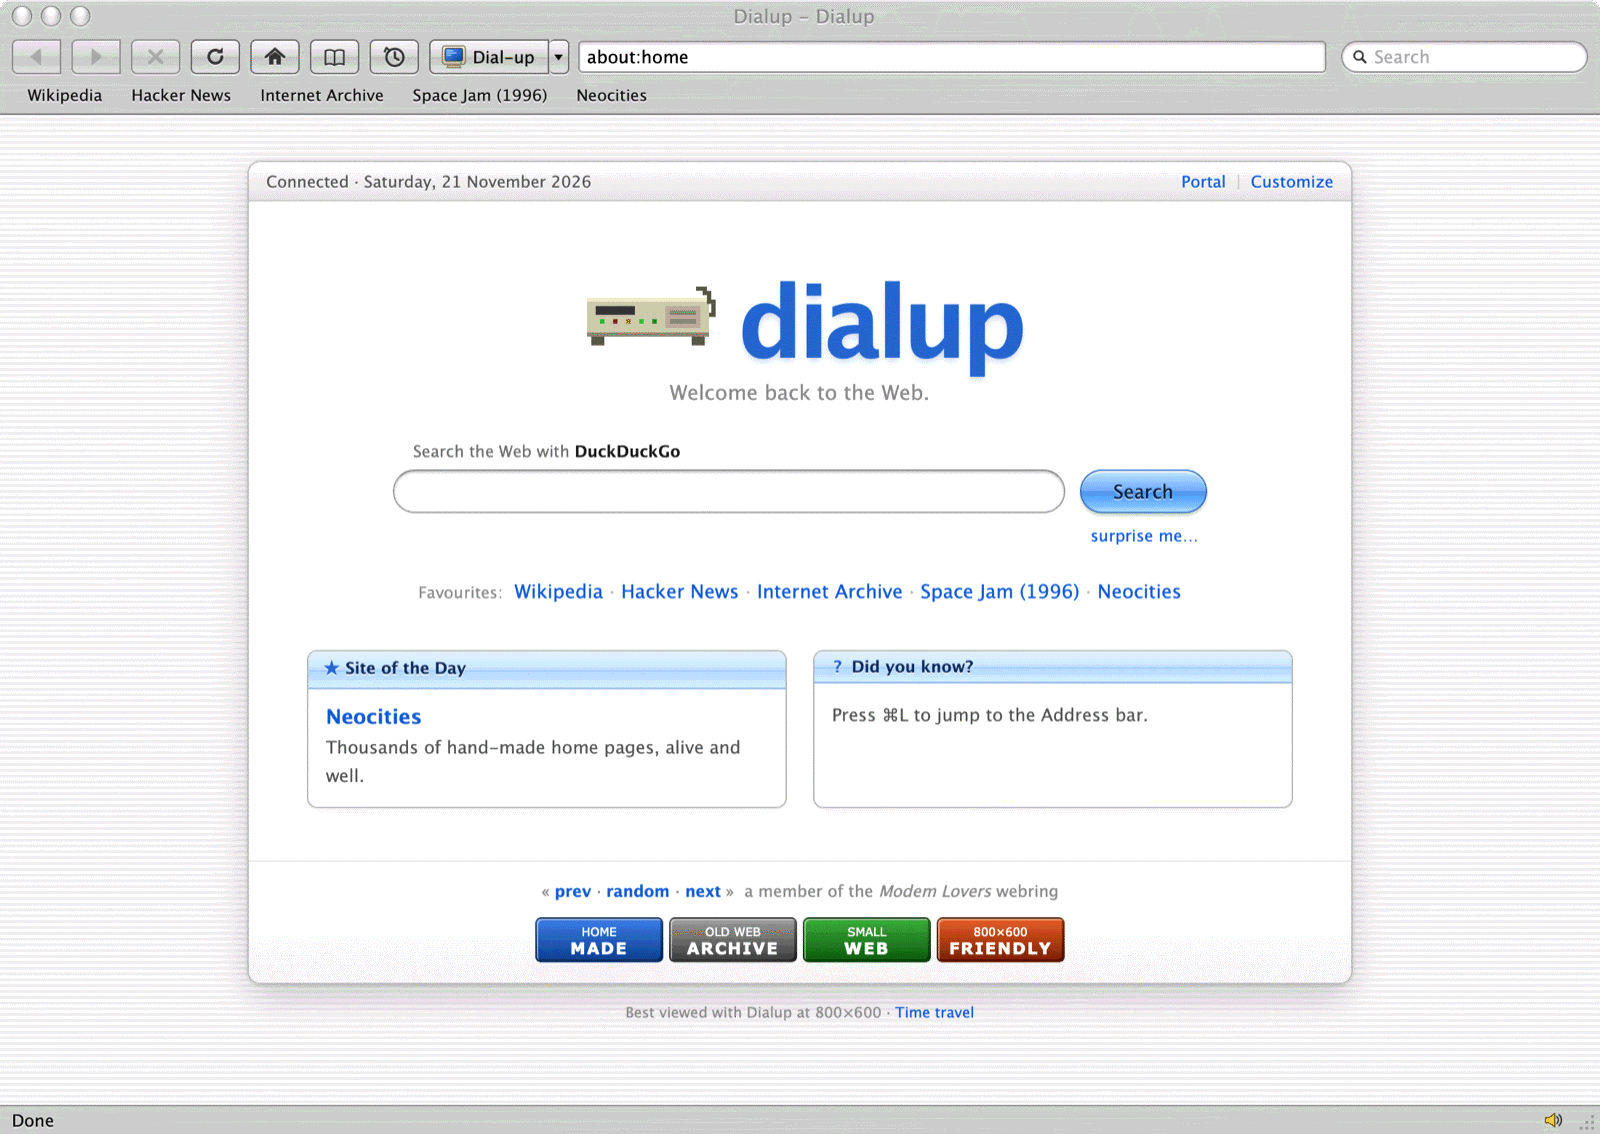
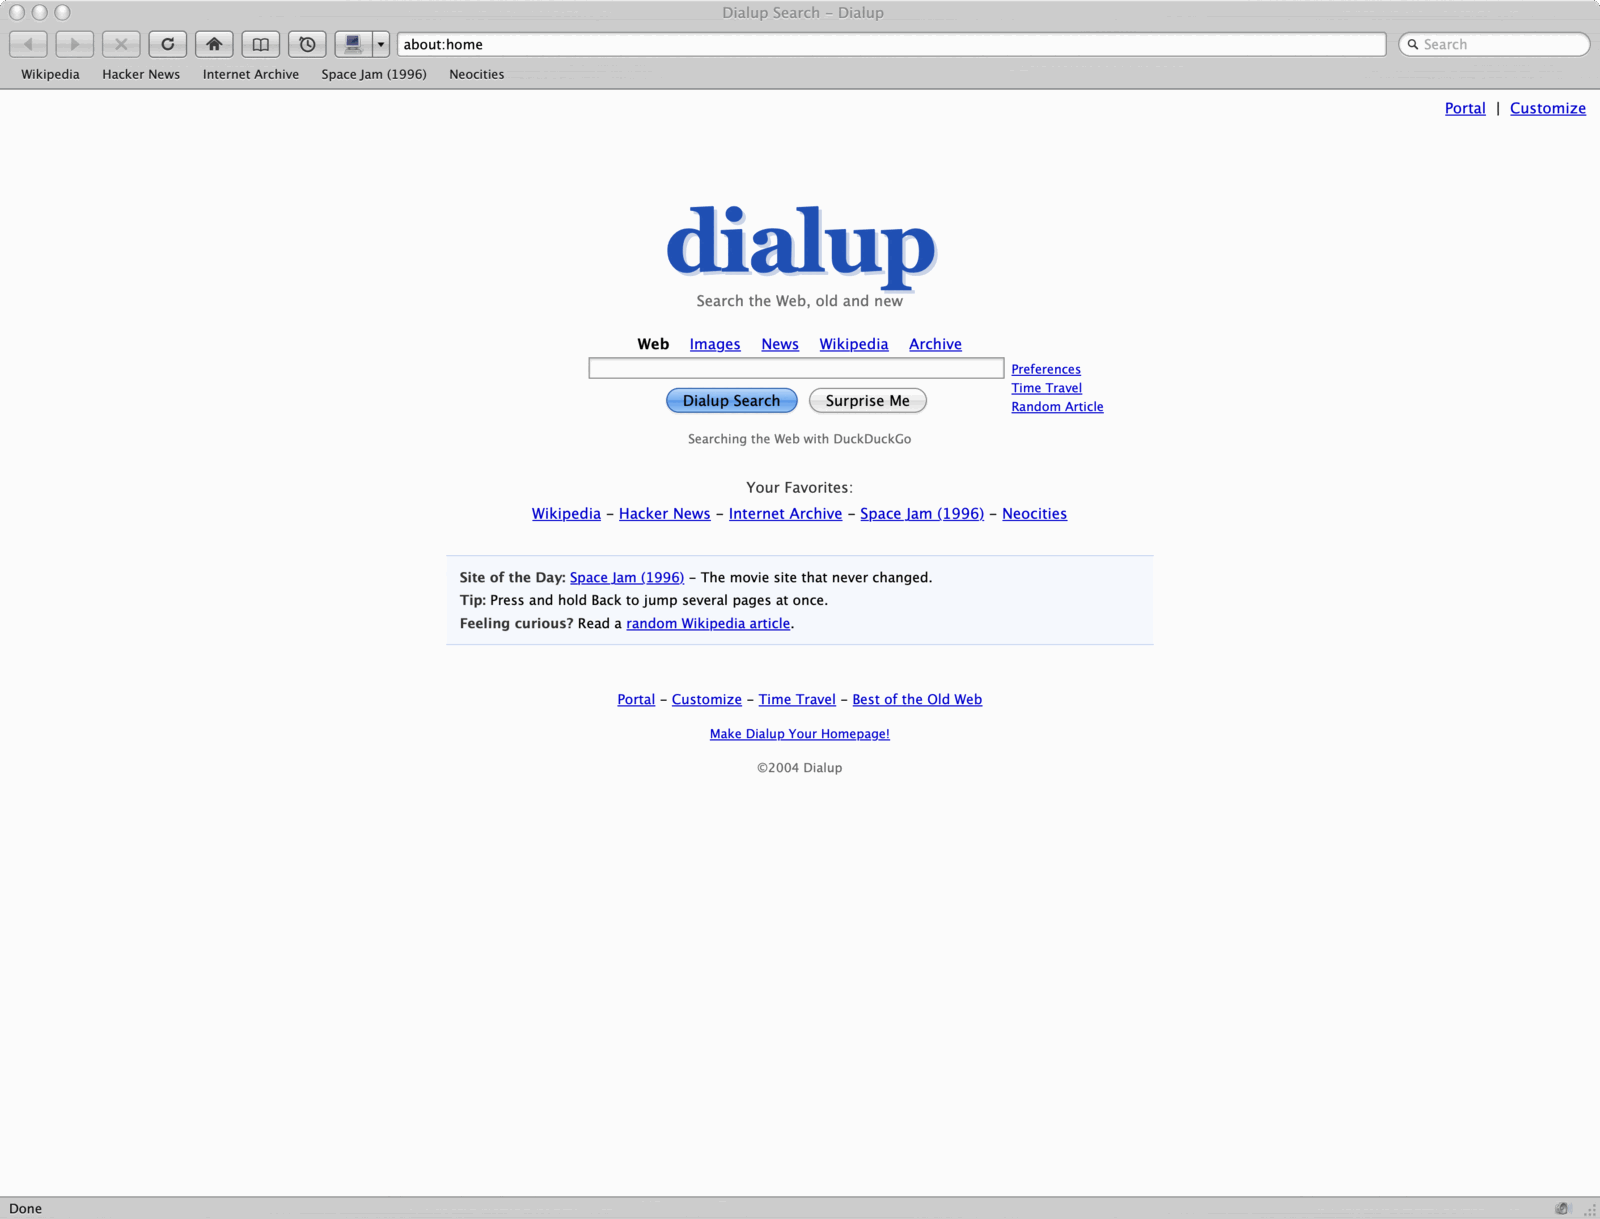
README: no slogan or 'hobby' wording; current start page screenshots

diff --git a/README.md b/README.md
@@ -1,10 +1,8 @@
 # Dialup
 
-**A browser from 2003, built in 2026.**
-
 [![CI](https://github.com/viktorfroberg/Dialup/actions/workflows/ci.yml/badge.svg)](https://github.com/viktorfroberg/Dialup/actions/workflows/ci.yml)
 
-Dialup is a hobby macOS browser that looks and feels like the browsers of 2001–2004: the blue Windows XP title bar, the brushed-metal Mac toolbar, the grey 3D bevels of Windows 98. Underneath it's modern WebKit (the engine Safari uses), so today's web works fine. Turn on **Dial-up Mode** and pictures trickle in at modem speed while the status bar counts down "(3 items remaining)".
+Dialup is a macOS browser that looks and feels like the browsers of 2001–2004: the blue Windows XP title bar, the brushed-metal Mac toolbar, the grey 3D bevels of Windows 98. Underneath it's modern WebKit (the engine Safari uses), so today's web works fine. Turn on **Dial-up Mode** and pictures trickle in at modem speed while the status bar counts down "(3 items remaining)".
 
 The whole browser UI is plain HTML and CSS, with no build step. A skin is one CSS file.
 

diff --git a/docs/PLAN.md b/docs/PLAN.md
@@ -1,6 +1,6 @@
 # Dialup: plan and architecture (kept current)
 
-A hobby macOS browser that looks and feels like 2001–2004 browsers (Windows XP, Mac OS X Aqua, Windows 98/2000 Classic) on modern WebKit. It's meant to be easy to reskin and extend: the whole UI is HTML/CSS, with no build step.
+A macOS browser that looks and feels like 2001–2004 browsers (Windows XP, Mac OS X Aqua, Windows 98/2000 Classic) on modern WebKit. It's meant to be easy to reskin and extend: the whole UI is HTML/CSS, with no build step.
 
 ## Architecture (as built)
 
